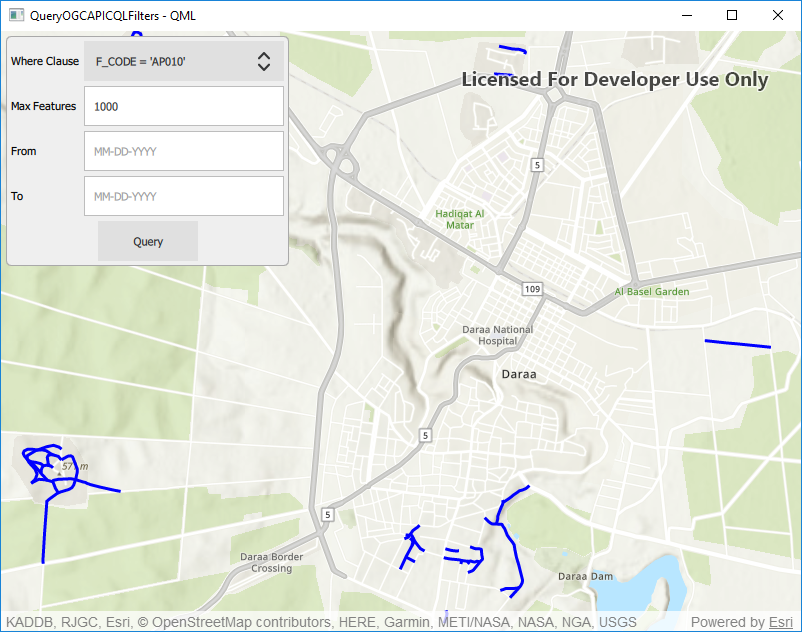
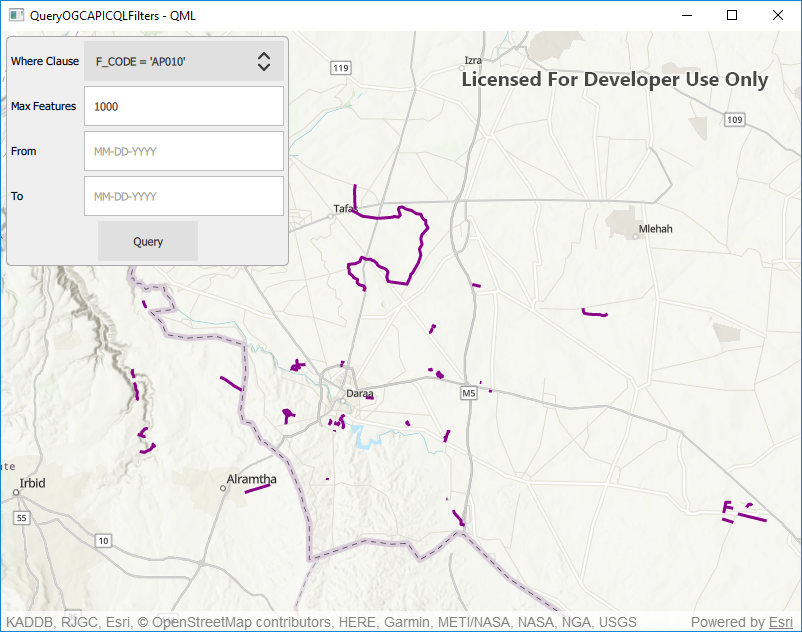
Add time extent to QML sample
Remove extra comments and other cosmetic code cleanup

diff --git a/ArcGISRuntimeSDKQt_QMLSamples/Layers/QueryOGCAPICQLFilters/QueryOGCAPICQLFilters.qml b/ArcGISRuntimeSDKQt_QMLSamples/Layers/QueryOGCAPICQLFilters/QueryOGCAPICQLFilters.qml
@@ -53,39 +53,21 @@ Rectangle {
                 renderer: SimpleRenderer {
                     SimpleLineSymbol {
                         style: Enums.SimpleLineSymbolStyleSolid
-                        color: "blue"
+                        color: "darkMagenta"
                         width: 3
                     }
-                }
-            }
-
-            ViewpointCenter {
-                targetScale: 20000
-                center: Point {
-                    x: 36.10
-                    y: 32.62
-                    spatialReference: SpatialReference{ wkid: 4326 }
                 }
             }
         }
 
         QueryParameters {
             id: queryParameters
-            // Set the query area to what is currently visible in the map view
-            geometry: mapView.currentViewpointExtent.extent
-            // Some services have low default values for max features returned
+
+            // Set the default value for max features returned
             maxFeatures: 1000
 
             // Set the default where clause
             whereClause: "F_CODE = 'AP010'"
-        }
-
-        onNavigatingChanged: {
-            if (mapView.navigating)
-                return;
-
-            // Populate the feature collection table with features that match the parameters, cache them locally, and store all table fields
-            ogcFeatureCollectionTable.populateFromService(queryParameters, true, ["*"]);
         }
 
         Rectangle {
@@ -193,6 +175,13 @@ Rectangle {
                 text: "Query"
 
 
+                TimeExtent {
+                    id: time
+                    startTime: new Date(fromDate.text)
+                    endTime: new Date(toDate.text)
+                    }
+
+
                 onClicked: {
                     if (!ogcFeatureCollectionTable)
                         return;
@@ -200,15 +189,15 @@ Rectangle {
                     // create the parameters
                     const queryParams = ArcGISRuntimeEnvironment.createObject("QueryParameters",
                                                                               {
+                                                                                  geometry: mapView.currentViewpointExtent.extent,
                                                                                   whereClause: whereClauseMenu.currentText,
                                                                                   maxFeatures: maxFeatureField.text,
-//                                                                                  TimeExtent:
-                                                                                  geometry: mapView.currentViewpointExtent.extent
+                                                                                  timeExtent: time
                                                                               });
 
                     // Populate the feature collection table with features that match the parameters,
                     // clear the cache to prepare for the new query results, and store all table fields
-                    ogcFeatureCollectionTable.populateFromService(queryParams, true, ["*"]);
+                    ogcFeatureCollectionTable.populateFromService(queryParams, true, []);
                 }
             }
         }

diff --git a/ArcGISRuntimeSDKQt_CppSamples/Layers/QueryOGCAPICQLFilters/QueryOGCAPICQLFilters.qml b/ArcGISRuntimeSDKQt_CppSamples/Layers/QueryOGCAPICQLFilters/QueryOGCAPICQLFilters.qml
@@ -138,15 +138,8 @@ Item {
             text: "Query"
             onClicked:
             {
-                var clause_text = whereClauseMenu.currentText;
-                var max_feature_count = maxFeatureField.text;
-                var from_date_text = fromDate.text;
-                var to_date_text = toDate.text;
-
-                model.query(clause_text, max_feature_count, from_date_text, to_date_text);
+                model.query(hereClauseMenu.currentText, maxFeatureField.text, fromDate.text, toDate.text);
             }
-
-
         }
     }
 }
